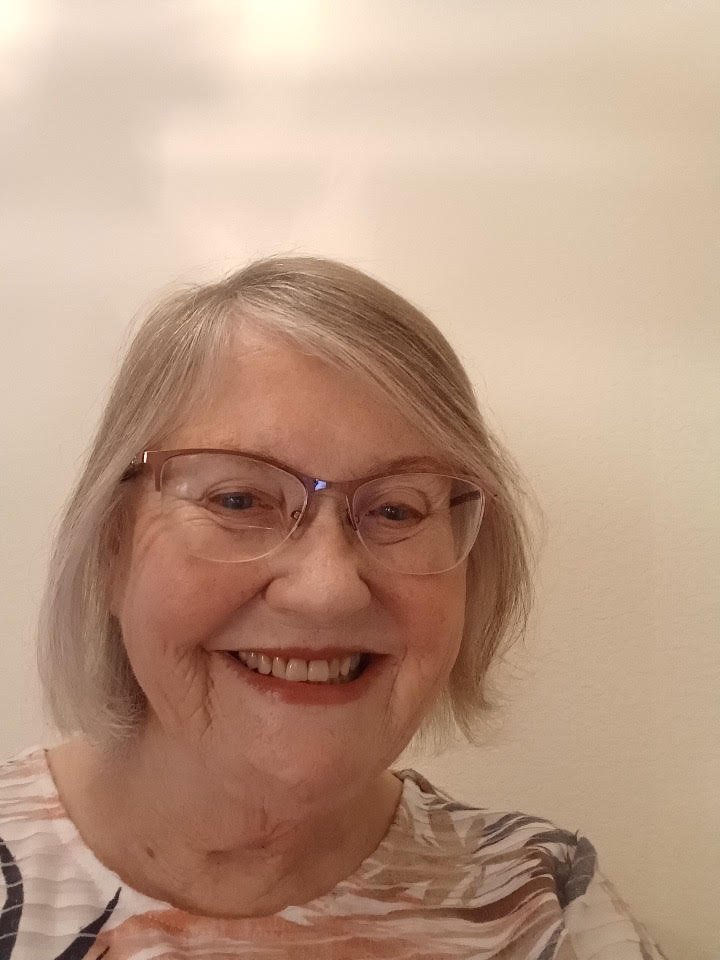
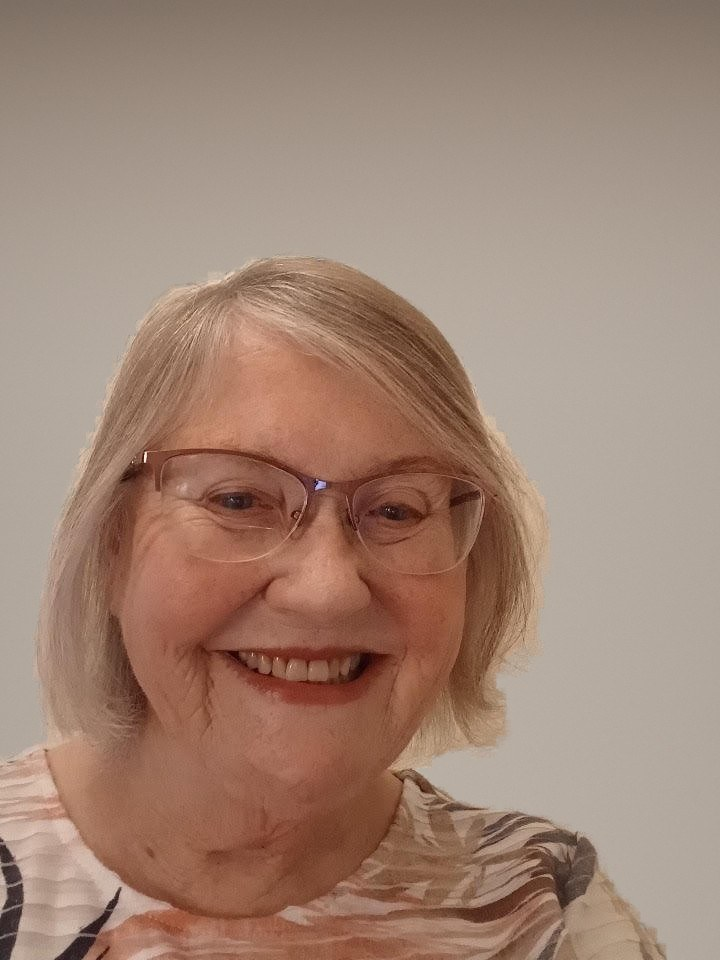
Add Dcn. (ret.) Melinda Barrow; match portrait backgrounds to Fr. Dave's
- Clergy: Dcn. (ret.) Melinda Barrow, Deacon (Retired), with headshot
- Melinda's and Charlene's portraits now share Fr. Dave's studio backdrop;
  only the background changed (people unedited); hair edges smoothed and softened
- scripts/match-portrait-background.py: reusable local tool (rembg) for future
  clergy/vestry portraits, with usage notes

diff --git a/src/content/site.ts b/src/content/site.ts
@@ -78,6 +78,13 @@ export const clergy: Clergy[] = [
       "Father Dave has served as rector of Holy Cross Anglican Church for three and a half years. Before ordination, he spent many years in healthcare administration and business leadership. He holds a Master of Divinity from Nashotah House Theological Seminary. He serves on the diocesan Commission on Ministry and is a member of the diocesan ecclesiastical court. He is also a volunteer chaplain with Community Regional Medical Center and the Sanger Police Department. Father Dave is married and the father of two adult daughters. He welcomes you to Holy Cross.",
     ],
   },
+  {
+    // From Fr. Dave (Nov 2026). Background matched to Fr. Dave's headshot.
+    name: "Dcn. (ret.) Melinda Barrow",
+    role: "Deacon (Retired)",
+    photo: "clergy-melinda-barrow",
+    bio: [],
+  },
 ];
 
 // NEEDED: vestry names and offices

diff --git a/src/app/clergy/page.tsx b/src/app/clergy/page.tsx
@@ -20,11 +20,13 @@ export default function Clergy() {
                 <p className="text-sm font-semibold uppercase tracking-wider text-oxblood">{c.role}</p>
                 <h2 className="mt-2 text-4xl">{c.name}</h2>
                 {c.credentials && <p className="mt-2 font-smallcaps text-lg tracking-wide text-stone">{c.credentials}</p>}
-                <div className="prose-church drop-cap mt-6 text-lg">
-                  {c.bio.map((p, i) => (
-                    <p key={i}>{p}</p>
-                  ))}
-                </div>
+                {c.bio.length > 0 && (
+                  <div className="prose-church drop-cap mt-6 text-lg">
+                    {c.bio.map((p, i) => (
+                      <p key={i}>{p}</p>
+                    ))}
+                  </div>
+                )}
               </div>
             </article>
           ))}

diff --git a/scripts/match-portrait-background.py b/scripts/match-portrait-background.py
@@ -1,0 +1,165 @@
+"""
+Give a clergy/vestry portrait the same backdrop as Fr. Dave's headshot, without altering the person.
+
+Setup (one time; runs fully on this computer, photos are never uploaded):
+    python -m venv .venv-rembg
+    .venv-rembg/Scripts/python -m pip install "rembg[cpu]" pillow-heif   (first run downloads a ~176 MB model)
+
+Usage:
+    .venv-rembg/Scripts/python scripts/match-portrait-background.py \
+        photos/library/<name>.jpg photos/library/fr-dave-portrait.jpg photos/library/<name>-matched.jpg [preview.jpg] \
+        [--soft-hair=0.52]            # smooth + feather the hair outline in the head area (top 52% of the photo)
+        [--erase-white=x0,y0,x1,y1]   # remove white objects in an area (fractions); can nibble light clothing, so
+                                      # cropping the object out of frame is usually better
+
+Tips: frame like Fr. Dave's (2:3, head and shoulders). Plain-wall photos need no options; busy outdoor
+backgrounds benefit from --soft-hair. Used for Melinda Barrow (Nov 2026): cropped to 2:3 first (to leave out
+a chair), then --soft-hair=0.52.
+
+How it works:
+- Person cut out locally with rembg (u2net_human_seg) + alpha matting.
+- Fully-opaque person pixels are copied unchanged. Only edge pixels are cleaned
+  (the old background's colour removed) so no halo or leftover background shows.
+"""
+import sys
+import numpy as np
+from PIL import Image, ImageFilter, ImageOps
+from rembg import remove, new_session
+
+args = [a for a in sys.argv[1:] if not a.startswith("--")]
+opts = dict(a[2:].split("=", 1) for a in sys.argv[1:] if a.startswith("--") and "=" in a)
+src, ref, out = args[0], args[1], args[2]
+preview_path = args[3] if len(args) > 3 else None
+person = ImageOps.exif_transpose(Image.open(src)).convert("RGB")
+w, h = person.size
+I = np.asarray(person).astype(np.float32)
+
+# 1) Cut-out
+session = new_session("u2net_human_seg")
+cut = remove(person, session=session, alpha_matting=True,
+             alpha_matting_foreground_threshold=240, alpha_matting_background_threshold=12,
+             alpha_matting_erode_size=8)
+a = np.asarray(cut.getchannel("A")).astype(np.float32) / 255.0
+
+# 1b) Cleanup of leftovers from busy backgrounds (only near the outline, never inside the person)
+solid = Image.fromarray(((a > 0.5) * 255).astype(np.uint8), "L")
+outer = np.asarray(solid.filter(ImageFilter.MaxFilter(31))) > 0
+inner = np.asarray(solid.filter(ImageFilter.MinFilter(31))) > 0
+band = outer & ~inner                                   # ~15px either side of the outline
+hsv = np.asarray(person.convert("HSV")).astype(np.float32)
+hue, sat = hsv[..., 0] * 360 / 255, hsv[..., 1] / 255
+leafy_or_sky = ((hue > 55) & (hue < 300) & (sat > 0.20))  # green foliage / blue-violet sky (not grey/blonde hair or skin)
+leafy_or_sky |= (hue > 185) & (hue < 270) & (sat > 0.08)  # faint, washed-out sky blue (hair and skin are never blue)
+upper = np.zeros_like(band); upper[: int(h * 0.62)] = True  # head & neck area only (clothing below may be coloured)
+a[band & leafy_or_sky & upper] = 0.0
+# optional: erase light, low-colour pixels (e.g. a white chair) inside a box given as fractions
+if "erase-white" in opts:
+    x0, y0, x1, y1 = [float(v) for v in opts["erase-white"].split(",")]
+    box = np.zeros_like(band); box[int(y0 * h): int(y1 * h), int(x0 * w): int(x1 * w)] = True
+    whiteish = (hsv[..., 2] / 255 > 0.72) & (sat < 0.18)
+    a[box & whiteish] = 0.0
+# remove thin strands/specks left along the outline: a morphological "opening" (shrink then regrow),
+# applied only in the outline band (and in the erase box), so the body of the person is unaffected
+def opening(img_f, size):
+    im8 = Image.fromarray((img_f * 255).astype(np.uint8), "L")
+    return np.asarray(im8.filter(ImageFilter.MinFilter(size)).filter(ImageFilter.MaxFilter(size)), dtype=np.float32) / 255.0
+opened = opening(a, 7)
+clean_zone = band.copy()
+if "erase-white" in opts:
+    clean_zone |= box
+    opened_box = opening(a, 15)
+    a[box] = np.minimum(a, opened_box)[box]
+a[clean_zone] = np.minimum(a, opened)[clean_zone]
+# soften very slightly so cleaned edges don't look cut out
+a = np.asarray(Image.fromarray((a * 255).astype(np.uint8), "L").filter(ImageFilter.GaussianBlur(0.8)), dtype=np.float32) / 255.0
+
+# 2) Backdrop from Fr. Dave's photo: vertical profile of the pure backdrop (outer strips, above shoulders)
+r = np.asarray(Image.open(ref).convert("RGB")).astype(np.float32)
+rh, rw = r.shape[:2]
+strips = np.concatenate([r[:, : int(rw * 0.08)], r[:, int(rw * 0.92):]], axis=1)
+pure_rows = int(rh * 0.40)                      # safely above his shoulders
+prof = strips[:pure_rows].mean(axis=1)           # (pure_rows, 3)
+# smooth it, then map onto this photo: top 40% follows his profile, the rest holds the last (lightest) tone
+k = 31
+pad = np.pad(prof, ((k, k), (0, 0)), mode="edge")
+prof = np.stack([np.convolve(pad[:, c], np.ones(k) / k, mode="same")[k:-k] for c in range(3)], axis=1)
+ys = np.linspace(0, 1, h)
+src_y = np.clip(ys / 0.40, 0, 1) * (pure_rows - 1)
+col = np.stack([np.interp(src_y, np.arange(pure_rows), prof[:, c]) for c in range(3)], axis=1)
+bg = np.repeat(col[:, None, :], w, axis=1)
+x = np.linspace(-1, 1, w)[None, :, None]
+bg = bg * (1.0 + 0.05 * (1 - x ** 2))           # soft studio-light falloff to the sides
+bg = bg + np.random.default_rng(7).normal(0, 1.4, bg.shape)  # faint grain, like a real backdrop
+
+# 3) Estimate the ORIGINAL background colour near each edge pixel (normalised blur of pure-background pixels)
+bgmask = (a < 0.05).astype(np.float32)
+def blur(img8, rad):
+    """Gaussian blur of a uint8 image (2D or RGB) -> float32."""
+    if img8.ndim == 2:
+        return np.asarray(Image.fromarray(img8, "L").filter(ImageFilter.GaussianBlur(rad)), dtype=np.float32)
+    return np.asarray(Image.fromarray(img8, "RGB").filter(ImageFilter.GaussianBlur(rad)), dtype=np.float32)
+num = blur((I * bgmask[..., None]).clip(0, 255).astype(np.uint8), 25)
+den = blur((bgmask * 255).astype(np.uint8), 25)[..., None] / 255.0 + 1e-4
+B_orig = num / den
+
+# 4) Decontaminate only semi-transparent edge pixels: F = (I - (1-a) * B_orig) / a
+edge = (a > 0.02) & (a < 0.98)
+F = I.copy()
+aa = np.clip(a, 0.15, 1.0)[..., None]           # avoid blow-up on the faintest wisps
+F_edge = (I - (1 - aa) * B_orig) / aa
+F[edge] = np.clip(F_edge[edge], 0, 255)
+
+# 4b) Optional soft hair edge (--soft-hair=<fraction of height covering the head>, e.g. 0.58):
+#     smooth the outline, feather it, and colour the fringe with the person's own nearby hair colour
+#     (so nothing of the old background shows). Pixels well inside the outline stay original.
+if "soft-hair" in opts:
+    head_bottom = int(h * float(opts["soft-hair"]))
+    radius = float(opts.get("soft-radius", max(3.0, w / 260)))       # feather width scales with image size
+    def g(img_f, rad):
+        im8 = Image.fromarray((np.clip(img_f, 0, 1) * 255).astype(np.uint8), "L")
+        return np.asarray(im8.filter(ImageFilter.GaussianBlur(rad)), dtype=np.float32) / 255.0
+    hard = (a > 0.5).astype(np.float32)
+    smooth_outline = (g(hard, radius * 1.6) > 0.5).astype(np.float32)   # removes jaggies and stray flecks
+    soft = g(smooth_outline, radius)                                     # gentle fade at the edge
+    # interior = comfortably inside the smoothed outline: keep original pixels here
+    interior = g(smooth_outline, radius * 2.2) > 0.97
+    # hair colour just inside the edge, spread outward (normalised blur of interior pixels)
+    inner8 = (interior[..., None] * I).clip(0, 255).astype(np.uint8)
+    num = np.stack([np.asarray(Image.fromarray(inner8[..., c], "L").filter(ImageFilter.GaussianBlur(radius * 3)), dtype=np.float32) for c in range(3)], axis=2)
+    den = np.asarray(Image.fromarray((interior * 255).astype(np.uint8), "L").filter(ImageFilter.GaussianBlur(radius * 3)), dtype=np.float32)[..., None] / 255.0 + 1e-4
+    hair_col = num / den
+    head = np.zeros((h, w), bool); head[:head_bottom] = True
+    # soften only where the edge is HAIR (low-colour grey/blonde), not skin (warmer, more saturated),
+    # so faces and necks keep a crisp natural edge
+    sat_o = np.asarray(person.convert("HSV"), dtype=np.float32)[..., 1] / 255.0
+    hairlike = interior & (sat_o < 0.30)
+    hb = lambda m: np.asarray(Image.fromarray((m * 255).astype(np.uint8), "L").filter(ImageFilter.GaussianBlur(radius * 4)), dtype=np.float32) / 255.0
+    hairness = np.clip((hb(hairlike.astype(np.float32)) / (hb(interior.astype(np.float32)) + 1e-4) - 0.35) / 0.4, 0, 1)
+    # blend region just below the head so the change isn't a visible line
+    ramp = np.clip((np.arange(h) - head_bottom) / max(1, int(h * 0.02)), 0, 1)[:, None]
+    weight = np.where(head, 1.0, 1.0 - ramp) * hairness   # head area, hair edges only, fading out below
+    new_a = soft
+    # fringe colour: real pixel where the original matte was confident, otherwise the hair colour
+    conf = np.clip((a - 0.75) / 0.25, 0, 1)[..., None] ** 2   # only trust very confident original pixels at the edge
+    fringe = F * conf + hair_col * (1 - conf)
+    fringe[interior] = I[interior]
+    F = F * (1 - weight[..., None]) + fringe * weight[..., None]
+    a = a * (1 - weight) + new_a * weight
+    a[interior & head & (hairness > 0)] = 1.0
+    # outline smoothing (not feathering) for the whole head area, hair or skin:
+    # anything outside the smoothed outline (stray flecks, jagged bits) is removed
+    keep = g(smooth_outline, 1.2)                         # crisp, smoothed edge
+    head_w = np.where(head, 1.0, 1.0 - ramp)
+    a = a * (1 - head_w) + np.minimum(a, keep) * head_w
+
+# 5) Composite: interior person pixels (a≈1) are copied exactly
+comp = F * a[..., None] + bg * (1 - a[..., None])
+solid = a >= 0.98
+comp[solid] = I[solid]
+result = Image.fromarray(comp.clip(0, 255).astype(np.uint8))
+result.save(out, "JPEG", quality=90, progressive=True, optimize=True)
+if preview_path:
+    prev = Image.new("RGB", (w * 2 + 20, h), (255, 255, 255))
+    prev.paste(person, (0, 0)); prev.paste(result, (w + 20, 0))
+    prev.thumbnail((1400, 1400)); prev.save(preview_path, quality=80)
+print("done", out, result.size)

diff --git a/photos/README.md b/photos/README.md
@@ -20,7 +20,8 @@ Photos actually shown on the site are copied into `public/photos/` under slot na
 | worship-service-clergy.jpg | (no caption; photo sent by Fr. Dave) |
 | church-front.jpg | Church front, 828 O Street (requested by Fr. Dave for the home page) |
 | church-interior.jpg | Church interior (requested by Fr. Dave for the worship section) |
-| vestry-charlene-rogde.jpg | Charlene Rogde, vestry member |
+| clergy-melinda-barrow.jpg | Dcn. (ret.) Melinda Barrow (background matched to Fr. Dave's) |
+| vestry-charlene-rogde.jpg | Charlene Rogde, vestry member (background matched to Fr. Dave's) |
 | holy-cross-members.jpg | Holy Cross members (group photo on the church steps; includes children) |
 | one-child-margyecy.jpg | Margyecy, sponsored through the One Child ministry |
 | bible-study-naomi-teaching.jpg | (no caption; photo sent by Fr. Dave) |
@@ -46,3 +47,10 @@ Chosen to be symbolic (hands, Bible, food), not people presented as parishioners
 | stock-outreach-family-support.jpg | Family Support | https://unsplash.com/photos/4GLeChny4bU | Max Raber |
 
 To replace one with a real parish photo, overwrite the matching file in `public/photos/` (e.g. `outreach-angel-ministry.jpg`).
+
+## Clergy & vestry portraits: matching backgrounds
+
+At Fr. Dave's request (Nov 2026), clergy and vestry portraits share the same plain studio backdrop as his
+headshot. Run new portraits through `scripts/match-portrait-background.py` (see the setup notes at the top of
+that file). It changes only the background; the person is not edited. Frame them like Fr. Dave's
+(2:3, head and shoulders, shoulders running off the sides). Un-matched originals stay in `originals/`.

diff --git a/public/photos/README.md b/public/photos/README.md
@@ -14,6 +14,8 @@ Each file here fills a spot on a page. To change one, replace the file with the 
 | hero-worship       | Worship page banner                | Worship service, clergy reading                |
 | worship-livestream | Worship page, livestream section   | Clergy of the ACNA Diocese of San Joaquin      |
 | clergy-fr-dave     | Clergy page portrait               | Fr. Dave                                       |
+| clergy-melinda-barrow | Clergy page portrait           | Dcn. (ret.) Melinda Barrow (matched backdrop)  |
+| vestry-charlene-rogde | Vestry card                    | Charlene Rogde (matched backdrop)              |
 | hero-church        | Home page banner                   | Church front on O Street (from Fr. Dave)       |
 | worship-interior   | Worship page, beside service times | Church interior (from Fr. Dave)                |
 
